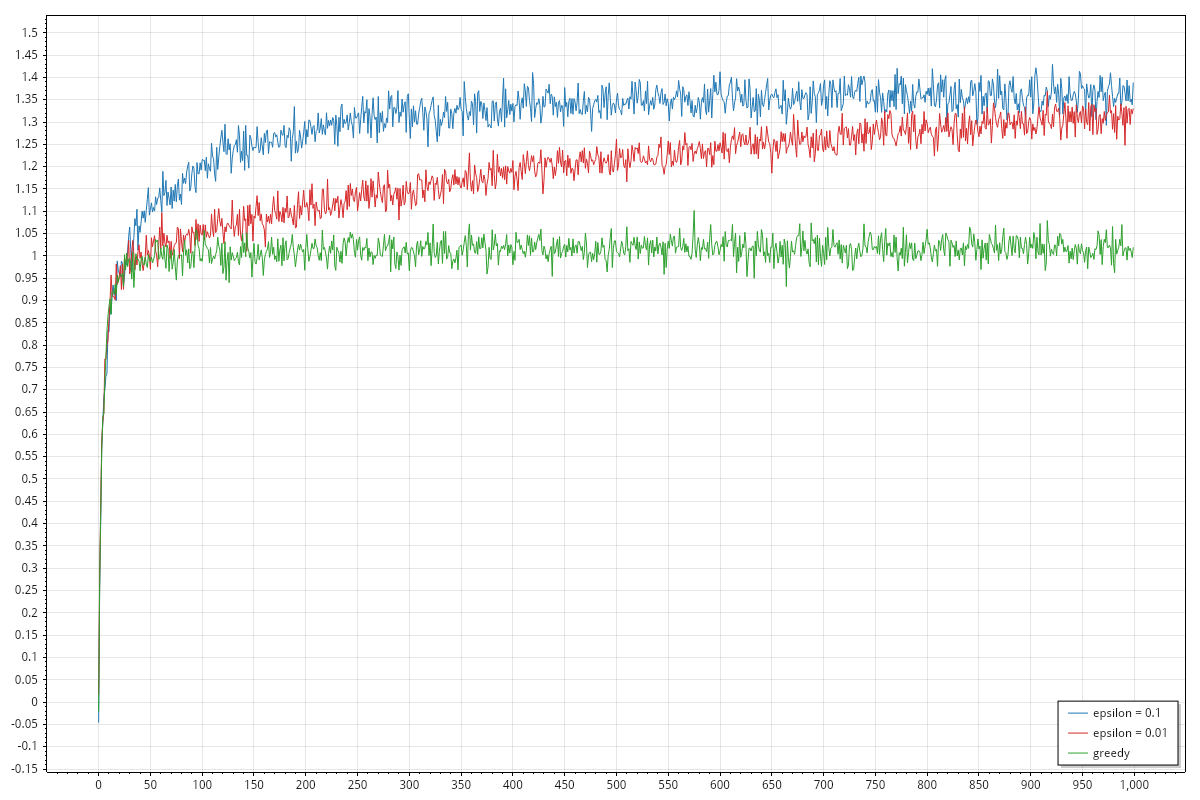
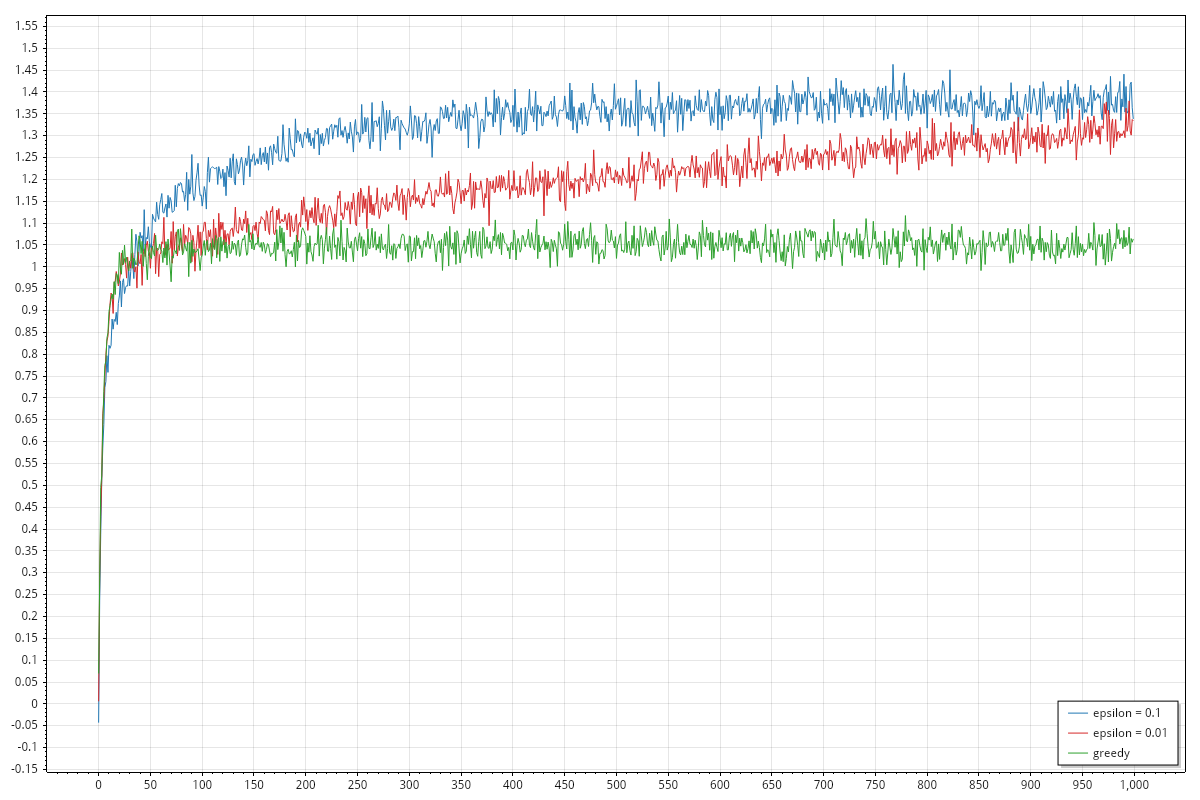
fix and improve ten armed testbed

Changed region(s): [[0.0, 0.0312, 0.9867, 0.8125], [0.0, 0.8125, 0.8633, 0.9375], [0.0, 0.8438, 0.0308, 0.875]]

diff --git a/blog/2025-04-27-ten-armed-testbed-with-c-sharp.md b/blog/2025-04-27-ten-armed-testbed-with-c-sharp.md
@@ -24,6 +24,10 @@ Once selected the value of `k=10`, we have to define the probability distributio
 
 Given that we don't know the probability distribution assigned to each action we have to base our strategies on estimates values. Each time we select an action, we get an actual reward value and we can improve our estimate for that action and we iterate this process trying to improve our estimates. We start with an estimate of zero for all actions. Each of these selection and update of estimates is called a **step**. A **round** comprises of multiple **steps**. In the example provided in the book, we found 2000 **rounds** of 1000 **step** each.
 
+To produce the graphs presented in the book we need to compute:
+- for each step, the average reward over the different rounds. For each round, we keep track of reward of step `i`. At the end we sum all rewards and we divide by the number of rounds.
+- for each step, the best arm selection rate. For each step of each round, we keep track of how many times we selected the best action. At the end we sum all values and we divide by the number of rounds. Please remember that we know which arm is best, because we are creating the distributions for each arm. This information cannot be used during the reinforcement learning but we can use it to evaluate performances on the testbed.
+
 One point that remains to define is how we select the action. It is evident that we would like to try all of them multiple times so that we can a reasonable estimate of the value of each action. For example we could select each action in a round-robin fashion and repeat until we complete all steps. This would give us a uniform approach for updating the estimated values, however the best action will be selected roughly `1/k` times, in our case corresponding to 10% of the times. That is not very good for the overall performance of the round.
 
 The books suggests three different strategies:
@@ -69,14 +73,14 @@ I want to comment on the bold section, because I don't fully agree with what is 
 
 Given that:
 - estimate won't change once updated
--  we start with all estimates equal to 0 
+-  we start with all estimates equal to `0` 
 -  we always select the best
 
-the first action selected will change its estimate to a value greater than 0 and it will always be selected without any further exploration. This is a rather artificial example however what is true is that the greedy strategy will always select an action with positive reward once it has found any. 
+the first action selected will change its estimate to a value greater than `0` and it will always be selected without any further exploration. This is a rather artificial example however what is true is that the greedy strategy will always select an action with positive reward once it has found any. 
 
 **So when the greedy strategy will indeed find the best arm in the stationary case?** One case is when the best arm is the only one with a positive reward. Another one is when all arms have negative reward because it will pick one by one all of them on the first steps. Since in case of ties there is some randomization at play, the greedy strategy can select the best arm in other cases.
 
-Different result can be obtained if we change the initial estimate of the actions. Again selecting `double.MaxValue` as default instead of 0 would force the greedy strategy to select at least once all the arm and then know exactly which one is the best and continue with that.
+Different result can be obtained if we change the initial estimate of the actions. Again selecting `double.MaxValue` as default instead of `0` would force the greedy strategy to select at least once all the arm and then know exactly which one is the best and continue with that.
 
 #### Code
 
@@ -94,4 +98,16 @@ The graphs are implemented using https://scottplot.net/ you might need to instal
     <figcaption>The best arm selection rate per step, per strategy</figcaption>
 </figure>
 
-My results are very similar to what is presented in the book for what concerns the average reward per step. It shows a bit different slope and lower values for the best arm selection rate. At the moment, it is not clear to me why.
+### Initializing default estimates to double.MaxValue
+
+As noted above a couple of times, setting the default estimate to `double.MaxValue` will force exploration at initial steps for all strategies. The performance of the average reward improves for all strategies, possibly excluding the initial exploration which is quite visible on the graph as brief (10 steps) almost horizontal progress on the three lines. It is noticeable also how the three strategies behave almost with the same performance on the average reward. The graph for the best arm selection rate is rather different from the previous case, showing again more similaties between the three strategies.
+
+<figure>
+    <img style={{ margin:'0 auto', display:'block' }} alt="The average reward per step, per strategy using double.MaxValue as default estimate" src="/img/average_reward_max_value.png" /> 
+  <figcaption>The average reward per step, per strategy using double.MaxValue as default estimate</figcaption>
+</figure>
+
+<figure>
+    <img style={{ margin:'0 auto', display:'block' }} alt="The best arm selection rate per step, per strategy using double.MaxValue as default estimate" src="/img/best_arm_selection_rate_max_value.png" /> 
+    <figcaption>The best arm selection rate per step, per strategy using double.MaxValue as default estimate</figcaption>
+</figure>
